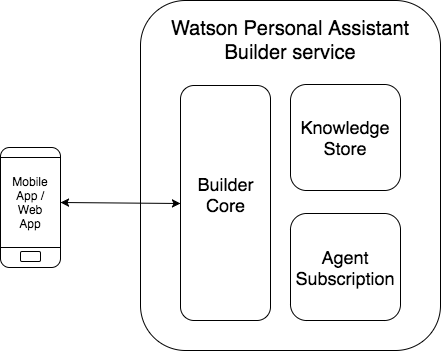
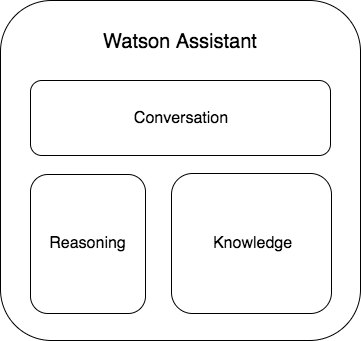
updates diagram with ongoing discussion on naming just to see the whole thing together

diff --git a/_content/understand-service/overview.md b/_content/understand-service/overview.md
@@ -2,28 +2,29 @@
 title: Overview
 weight: 10
 ---
-![Watson Assistant Builder ]({{site.baseurl}}/images/wpa_overview.png)
+![Watson Assistant Components]({{site.baseurl}}/images/wpa_overview.png)
+
+
+## The Conversation component
+
+The Conversation component is the component you will interact with the most in the beginning.  The primary responsibility of the Conversation component is to route your users' utterance (in text form) to the "correct" Expertise that should handle it.  Expertise are the main pieces of software you will develop in order to produce a cognitive application.  Expertise use natural language processing tools, like Watson Conversation Service, to determine the intent of your users' utterance and handle the request appropriately.  The Conversation component routes the utterance based on a confidence score returned by each expertise and information on the context.  The next page will give you an overview of the Conversation component APIs you'll use to register your expertise and you'll learn what it takes to create Expertise in a later section.
+
+## The Knowledge component
+
+The Knowledge component is used to store world objects and information about those objects.  The Expertise you develop will create and modify objects in the Knowledge component using the REST API or a NodeJS SDK.  The Conversation component will also create and modify information in the Knowledge component based on the context passed to the Conversation component from your application/solution.  A later page will give you an overview of the Knowledge component NodeJS SDK and you'll get hands-on with a tutorial in a later section. 
+
+## The Reasoning component
+
+The Reasoning component handles subscriptions to changes in the Knowledge Store objects and publishes notification events to Agents.  Agents are the primary pieces of software you will develop in order to give your cognitive application proactivity.  You'll also create Rules, using the Reasoning NodeJS SDK or REST API, to limit and focus the event notifications to your Agents.  Agents can also create and modify objects in the Knowledge component.  A later page will give you an overview of the Reasoning APIs and you'll learn how to create Rules and Agents using the NodeJS SDK in a tutorial.
 
 ## Your Application
 
-Whatever type of application you are building, be it a mobile application, web application or an integrated hardware and software solution, requests from your users need to be converted into text and sent to the Watson Assistant Builder Core using the `converse` HTTP REST API.  In this beta, the Builder service doesn't include Speech-to-Text conversion services, so this ability will have to be provided by your application services.  After sending the users' utterance to the core, your application will receive a JSON reply that includes, along with JSON context data, the textual reply for you to then show, or speak to your user.
-
-## The Builder Core
-
-The Watson Assistant Builder Core is the service you will interact with the most in the beginning.  The primary responsibility of the Builder Core is to route your users' utterance (in text form) to the "correct" Expertise that should handle it.  Expertise are the main pieces of software you will develop in order to produce a cognitive application.  Expertise use natural language processing tools, like Watson Conversation Service, to determine the intent of your users' utterance and handle the request appropriately.  The Core routes the utterance based on a confidence score returned by expertise along with information on the context.  The next page will give you an overview of the Builder Core APIs you'll use to register your expertise with the core and you'll learn what it takes to create Expertise in a later section.
-
-## The Knowledge Store
-
-The Watson Assistant Knowledge Store service is used to store world objects and information about those objects.  The Expertise you develop will create and modify objects in the Knowledge Store using a NodeJS SDK.  The Builder Core will also create and modify information in the Knowledge Store based on the context passed to the core from your application/solution.  A later page will give you an overview of the Knowledge Store NodeJS SDK and you'll get hands-on with a tutorial in a later section. 
-
-## The Agent Subscription service
-
-The Watson Assistant Agent Subscription service handles subscriptions to changes in the Knowledge Store objects and publishes notification events to Agents.  Agents are the primary pieces of software you will develop in order to give your cognitive application proactivity.  You'll also create Rules, using the Agent Subscription service NodeJS SDK, to limit and focus the event notifications to Agents.  Agents can also create and modify objects on the Knowledge Store.  A later page will give you an overview of the Agent SDK and you'll learn how to create Rules and Agents using a tutorial in a later section.
+Whatever type of application you are building, be it a mobile application, web application or an integrated hardware and software solution, requests from your users need to be converted into text and sent to the Conversation component using the `converse` HTTP REST API.  In this beta, Watson Assistant doesn't include Speech-to-Text conversion services, so this ability will have to be provided by your application services.  After sending the users' utterance to Conversation component, your application will receive a JSON reply that includes, along with JSON context data, the textual reply for you to then show, or speak to your user.
 
 ## Summary
 
-You'll create, or reuse, Expertise to make your personal assistant intelligent.  You'll create Agents to act on changes in the Knowledge Store to proactively prompt or do things for your users.  You'll create Rules to limit when particular Agents act.  Expertise, Agents and Rules, together with information collected and maintained in the Knowledge Store, will give you a powerful and proactive personal assistant for your cognitive application. 
+You'll create, or reuse, Expertise to make your personal assistant intelligent.  You'll create Agents to act on changes in the Knowledge component to proactively prompt or do things for your users.  You'll create Rules to limit when particular Agents act.  Expertise, Agents and Rules, together with information collected and maintained in the Knowledge component, will give you a powerful and proactive personal assistant for your cognitive application. 
 
-![Watson Assistant Builder final]({{site.baseurl}}/images/wpa_overview2.png)
+![Watson Assistant Based Application]({{site.baseurl}}/images/wpa_overview2.png)
 
 >**What next?**  Learn more about the [Builder Core APIs]({{site.baseurl}}/understand-service/core) 
